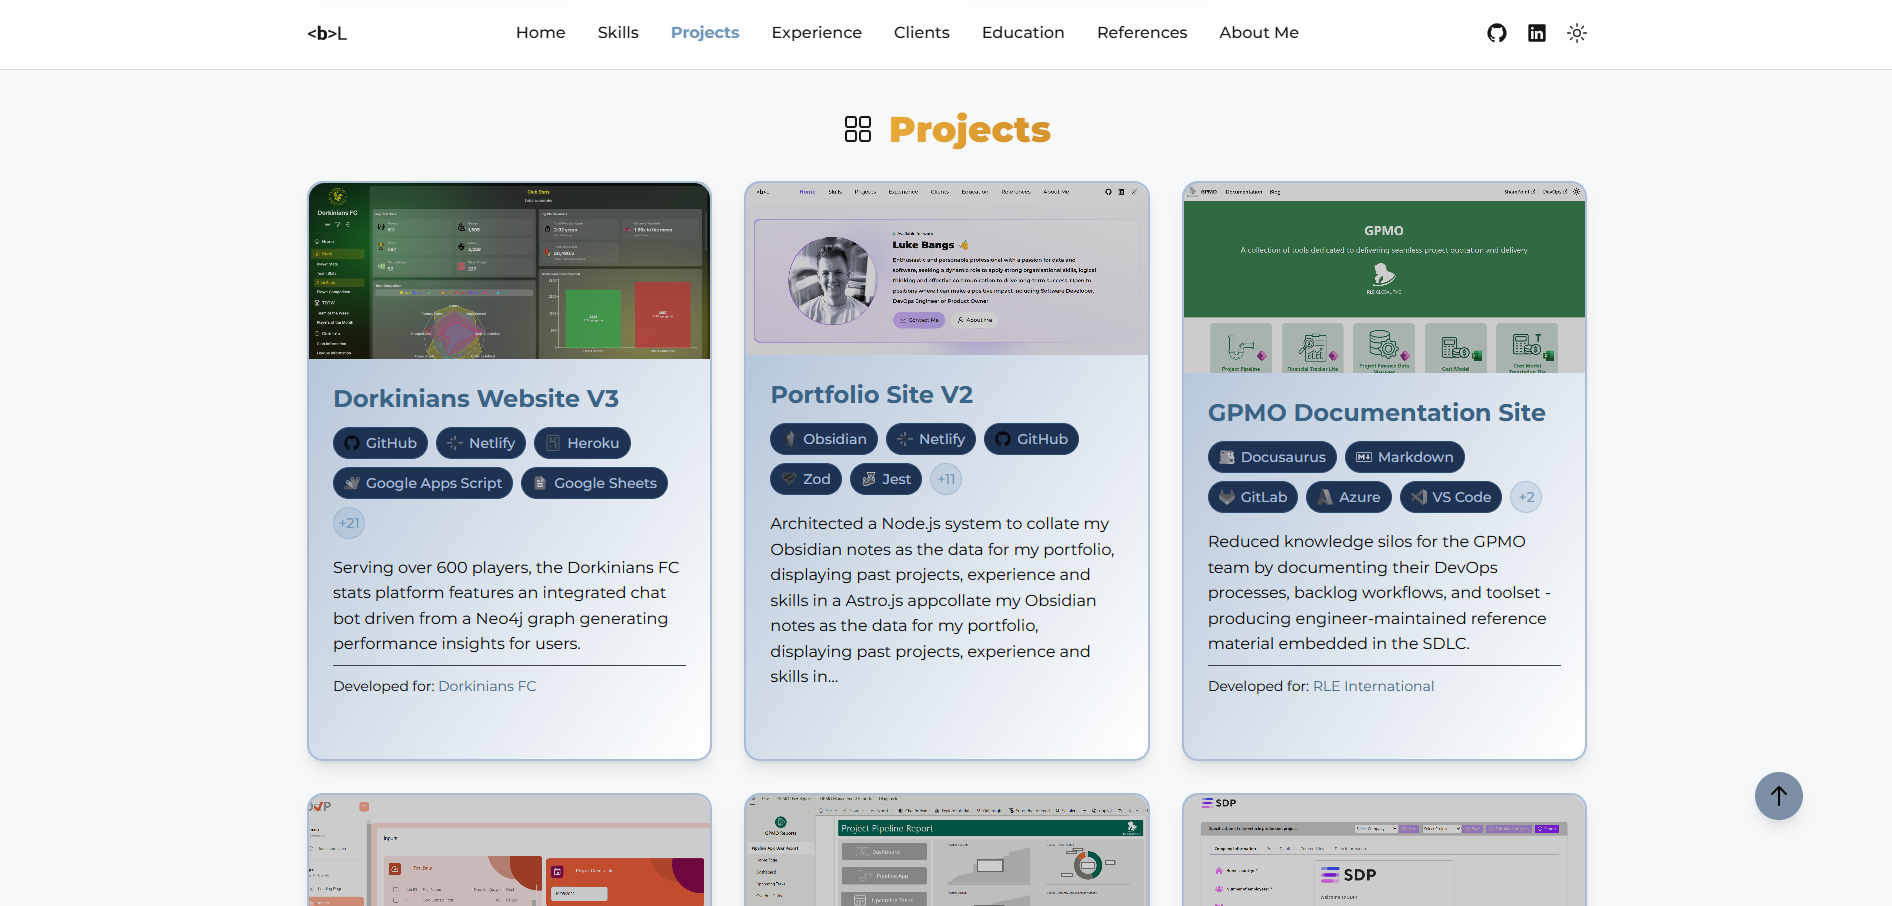
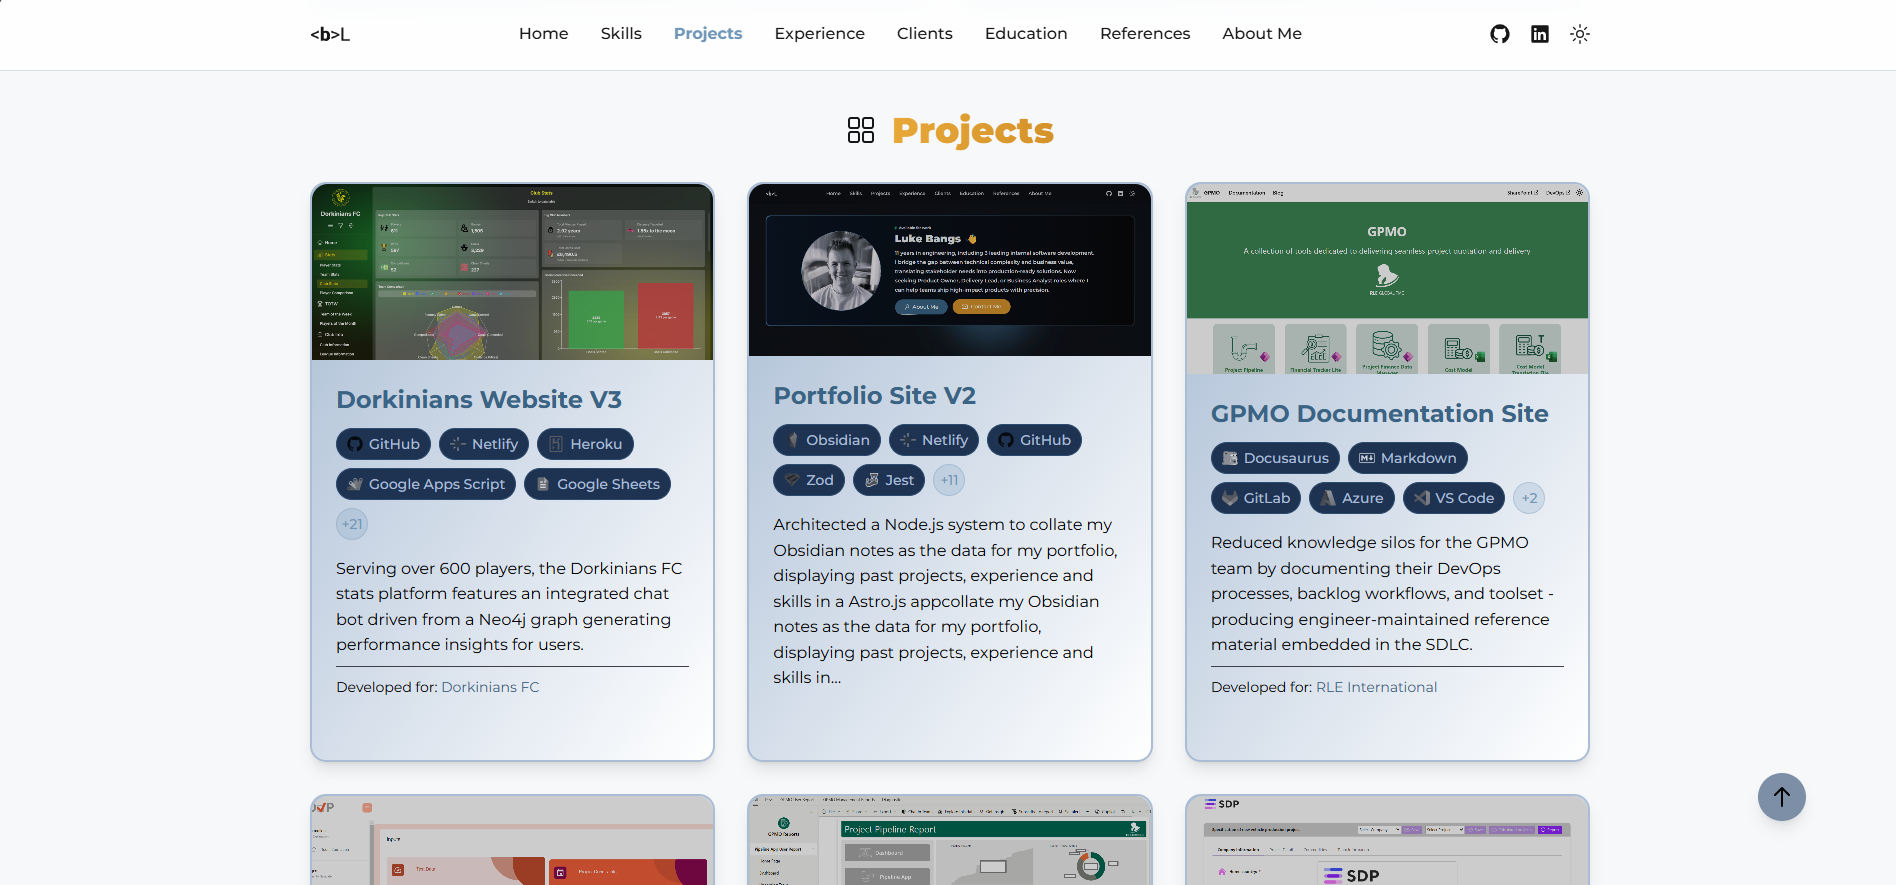
Updated Portfolio image and public images

diff --git a/src/content/projects/Portfolio Site V2.md b/src/content/projects/Portfolio Site V2.md
@@ -16,7 +16,7 @@ codeMultipleRepos: false
 deploymentServiceURL: https://app.netlify.com/projects/bangsluke-portfolio/overview
 folderURL: n/a
 logoURL: https://bangsluke-assets.netlify.app/images/project-logos/Portfolio-Site-V2.png
-imageURL: https://bangsluke-assets.netlify.app/images/projects/Portfolio-Site-V2.png
+imageURL: https://bangsluke-assets.netlify.app/images/portfolio-pictures/Portfolio - Shortened.png
 powerShellAlias: portfolio
 dateStart: 2025-02-01
 dateEnd: 2025-08-26
